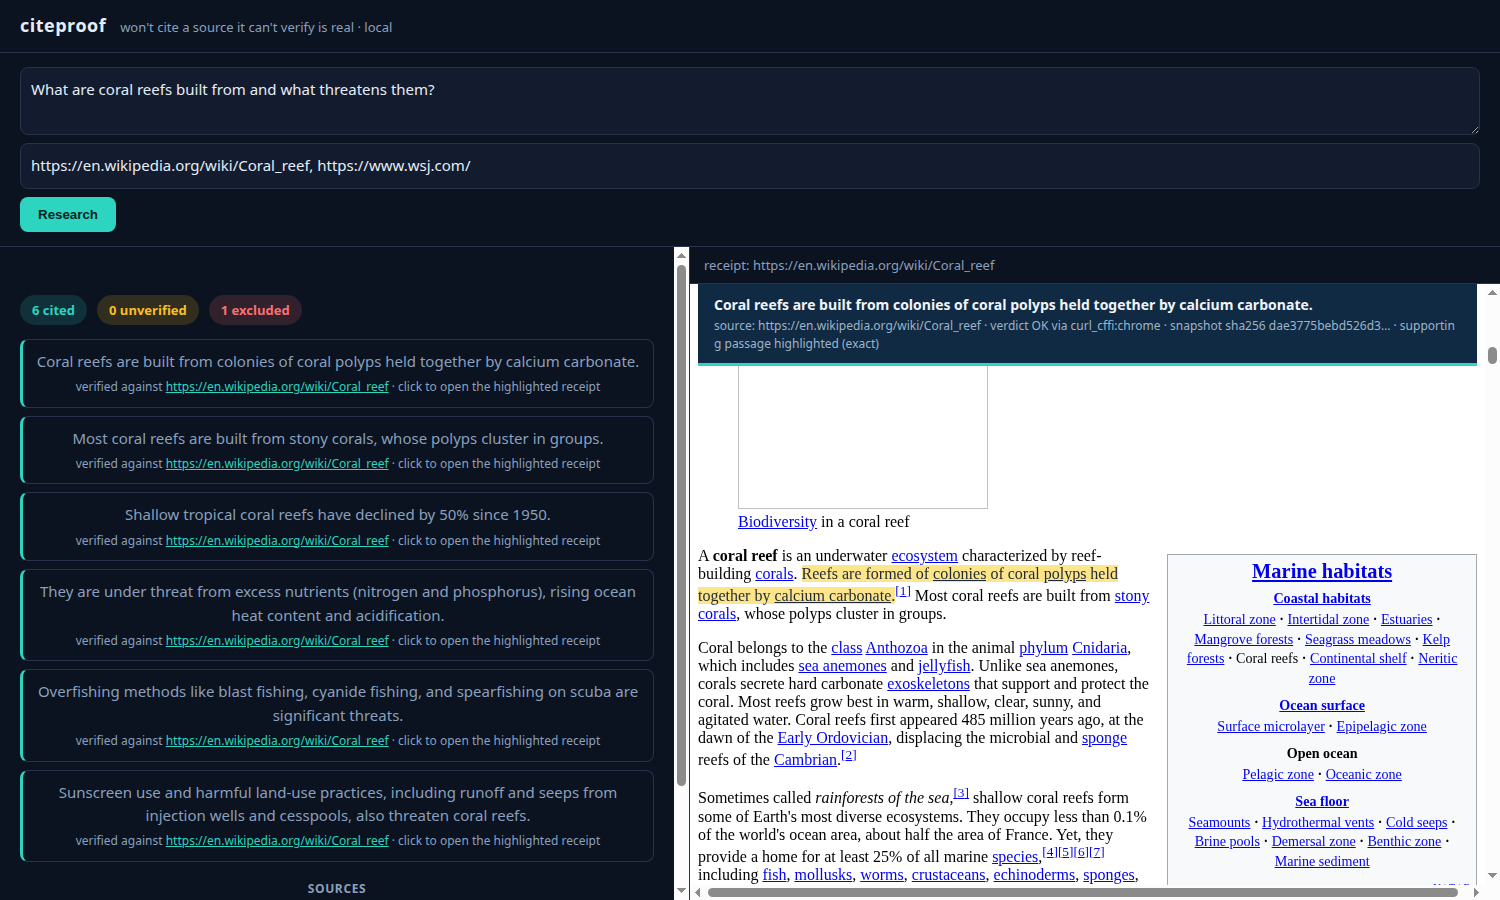
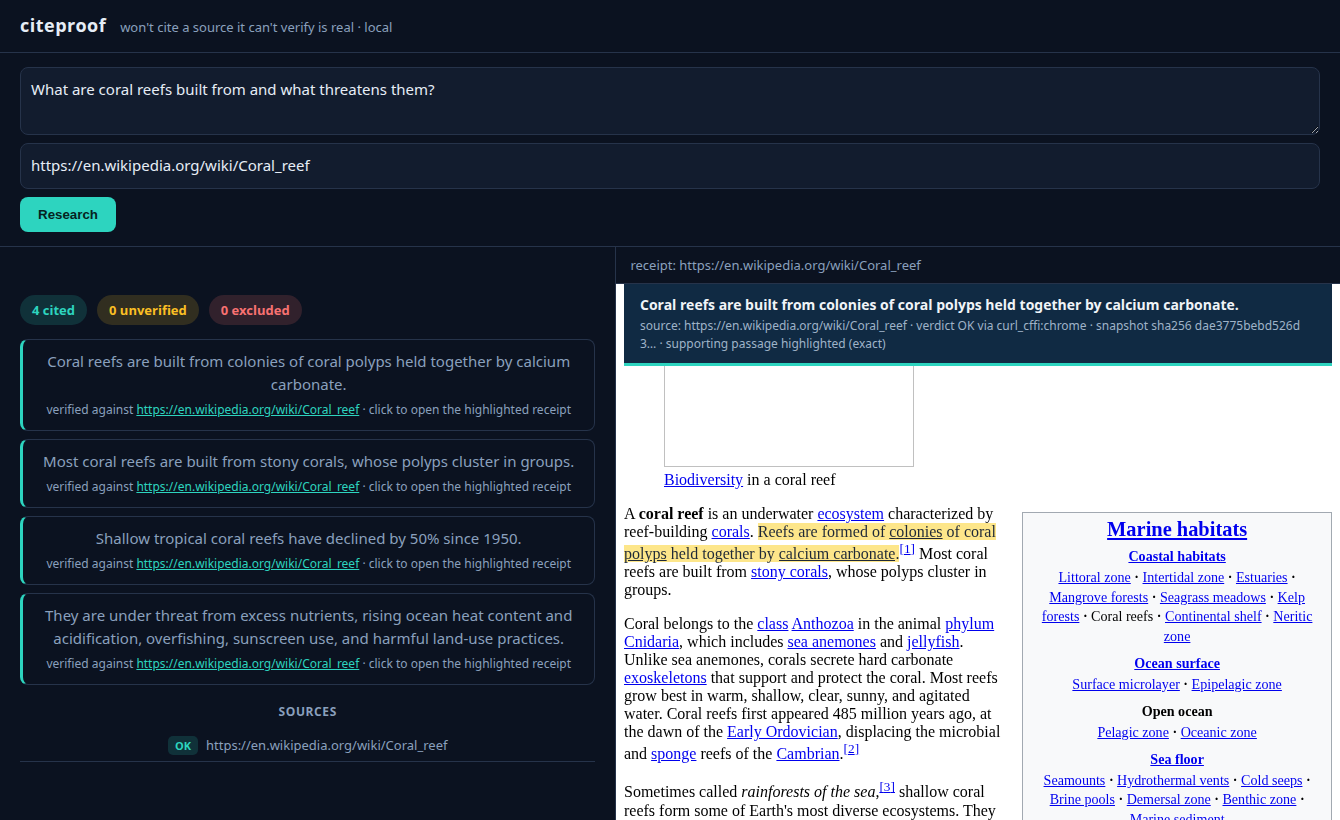
docs: refresh the demo GIF for live streaming + note streaming in the README
The demo GIF predated the draft-streaming and search/speed work. New capture (real run): the answer
STREAMS IN LIVE into the provisional 'drafting' box (labeled 'every sentence is verified next, only
verified ones are kept'), then the verified ledger replaces it, then clicking a cited claim opens the
source snapshot with the supporting line highlighted. Same ~300KB. README's 'What you get' now notes
the answer streams in live before verification.

Changed region(s): [[0.0, 0.1524, 1.0, 1.0], [0.0, 0.0, 0.9791, 0.122], [0.1836, 0.9756, 0.2448, 1.0]]

diff --git a/README.md b/README.md
@@ -47,8 +47,8 @@ highlighted line. That is the whole product: provable, not persuasive.
 
 ## What you get
 
-- A **split-screen web app**: ask a question, get an answer with a **verification ledger**
-  (N cited / M unverified / K excluded-with-verdict).
+- A **split-screen web app**: ask a question, watch the answer **stream in live**, then each sentence
+  is verified and you get a **verification ledger** (N cited / M unverified / K excluded-with-verdict).
 - Every **cited** claim is a link that opens the **snapshot of the source with the supporting line
   highlighted** - click-to-verify.
 - Claims the binder couldn't ground are shown **unverified**, not hidden.